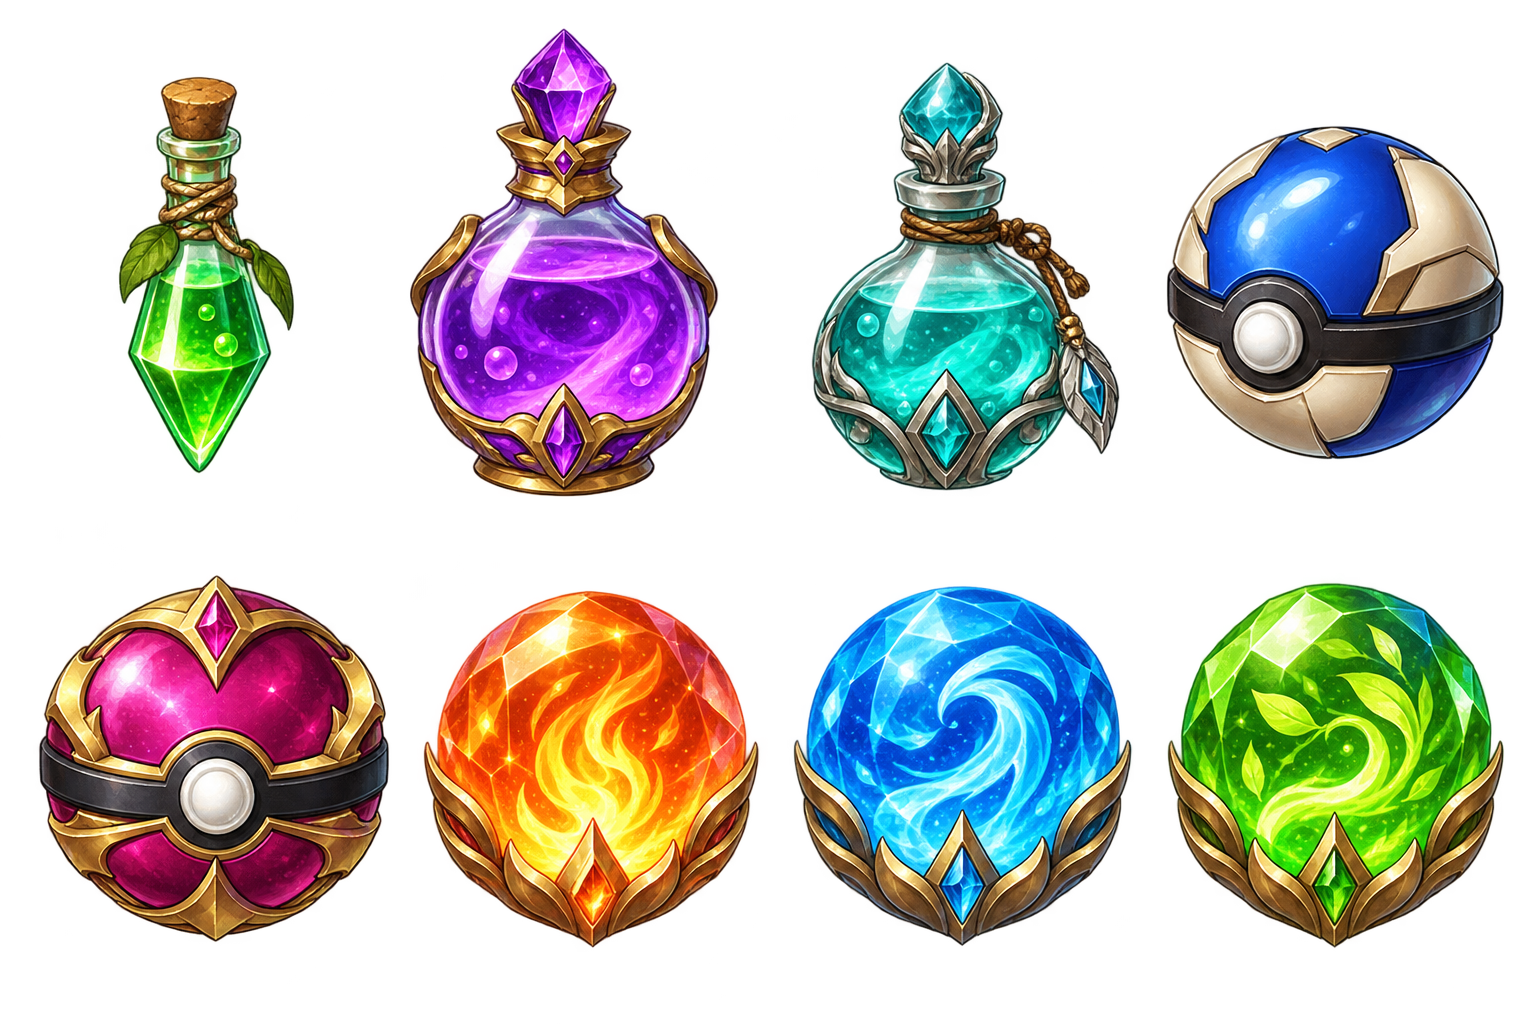
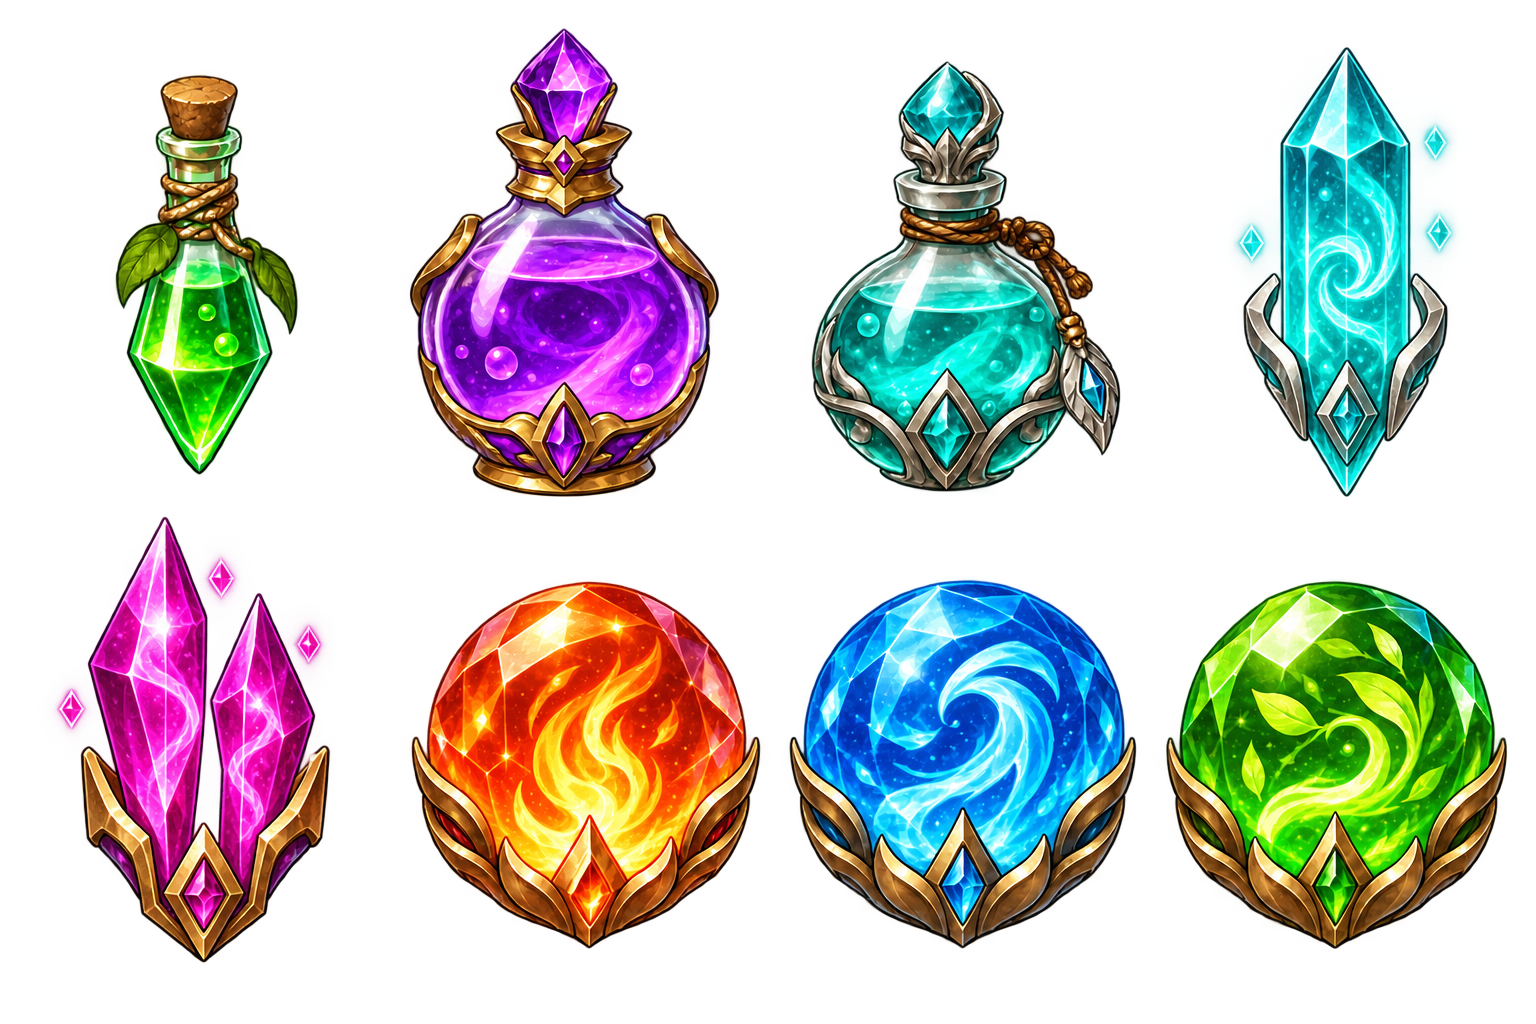
ルミナ・テイマーの捕獲道具・回復担当・紹介画像を刷新

diff --git a/lumina_tamer.html b/lumina_tamer.html
@@ -124,7 +124,7 @@ const SP = {
   cinderbat: { n: 'ヒバット', t: 'ember', hp: 44, at: 54, df: 42, sp: 68, ex: 70, rate: 40, learn: [[1, 'tackle'], [1, 'ember'], [10, 'bite'], [14, 'flamewheel']], look: { c: '#ff6a4a', c2: '#4a2030', sh: 'bird', f: ['batWings', 'earsP'], z: .9 } }
 };
 const ITEMS = { cure: { n: 'じょうたいなおし', en: 'Status Cure', d: 'やけど・まひ・どく・こおりを なおす', cure: true }, potion: { n: 'きずぐすり', en: 'Potion', d: 'HPを 30 かいふくする', heal: 30 }, hyper: { n: 'すごいきずぐすり', en: 'Hyper Potion', d: 'HPを 80 かいふくする', heal: 80 },
-  orb: { n: 'ルミナオーブ', en: 'Lumina Orb', d: 'やせいの モンスターを つかまえる', bonus: 1 }, grand: { n: 'グランドオーブ', en: 'Grand Orb', d: 'つかまえやすい とくべつな オーブ', bonus: 2.6 } };
+  orb: { n: 'ルミナ封晶', en: 'Lumina Seal Crystal', d: 'やせいの モンスターを つかまえる', bonus: 1 }, grand: { n: 'グランド封晶', en: 'Grand Seal Crystal', d: 'つかまえやすい とくべつな 封晶', bonus: 2.6 } };
 const totalExp = lv => Math.floor(lv * lv * lv * .6);
 
 /* ---------------- モンスター生成・能力値 ---------------- */
@@ -324,7 +324,7 @@ mkRows('gym', ['WWWWWWWWWWWW', 'WppppppppppW', 'WpxxppppxxpW', 'WppppppppppW', '
 /* ---------------- 人物 ---------------- */
 const NPCDEFS = [
   { id: 'prof', map: 'lab', x: 9, y: 5, dir: 'l', kind: 'prof', name: 'ミモザはかせ', hat: null, hair: '#e8e0f0', shirt: '#ffffff' },
-  { id: 'nurse', map: 'center', x: 4, y: 1, dir: 'd', kind: 'nurse', name: 'ナース', hat: '#ff9ac0', hair: '#ff9ac0', shirt: '#ffe0ec' },
+  { id: 'nurse', map: 'center', x: 4, y: 1, dir: 'd', kind: 'nurse', name: '薬師', hat: null, hair: '#79513a', shirt: '#345943' },
   { id: 'ken', map: 'out', x: 17, y: 22, dir: 'r', kind: 'trainer', name: 'たんけんか ケン', sight: 4, hair: '#6a4a2a', shirt: '#7a9a4a', hat: '#c0a040',
     team: [['nibblet', 6], ['mossbug', 7]], pre: 'おっ、きみ モンスターを つれてるな! しょうぶだ!', post: 'つよいな…！ ぼくも もっと きたえるよ。' },
   { id: 'mio', map: 'out', x: 22, y: 15, dir: 'l', kind: 'trainer', name: 'ぼうけんしゃ ミオ', sight: 4, hair: '#2a2a4a', shirt: '#c85a8a', hat: null,
@@ -335,7 +335,7 @@ const NPCDEFS = [
     team: [['pebblo', 11], ['boulderon', 13], ['boulderon', 14]], pre: 'ようこそ クォーリー・ジムへ! わたしは ガーネット。いわの かたさ、みせてあげる!',
     post: 'みごとだ…。これが クォーリーバッジ。きみは ほんものの テイマーだ!' },
   { id: 'guard', map: 'out', x: 31, y: 6, dir: 'u', kind: 'guard', name: 'ガードマン', hat: '#4a5a8a', hair: '#222', shirt: '#4a5a8a', hide: 'gym' },
-  { id: 'nurse2', map: 'cave', x: 8, y: 22, dir: 'd', kind: 'nurse', name: 'キャンプナース', hat: '#ff9ac0', hair: '#ff9ac0', shirt: '#ffe0ec' },
+  { id: 'nurse2', map: 'cave', x: 8, y: 22, dir: 'd', kind: 'nurse', name: 'キャンプの薬師', hat: null, hair: '#79513a', shirt: '#345943' },
   { id: 'gaku', map: 'cave', x: 7, y: 10, dir: 'r', kind: 'trainer', name: 'ロッククライマー ガク', sight: 4, hair: '#5a3a2a', shirt: '#c08040', hat: '#e8d040',
     team: [['drillmole', 14], ['pebblo', 14], ['glowmoth', 15]], pre: 'この洞窟は ぼくの しゅぎょうの場だ! しょうぶしよう!', post: 'やるなあ! おくには こおりつかいが いるぞ。' },
   { id: 'yuki', map: 'cave', x: 10, y: 5, dir: 'd', kind: 'trainer', name: 'こおりつかい ユキ', sight: 4, hair: '#cfe8ff', shirt: '#6aa0e0', hat: null,
@@ -344,7 +344,7 @@ const NPCDEFS = [
     team: [['auramoth', 19], ['tunnelord', 20]], pre: 'ここまで よく のぼってきた。わしの しゅぎょう、うけてみよ!', post: 'みごと…。ちょうろうが おくで まっておられる。' },
   { id: 'miko', map: 'summit', x: 16, y: 9, dir: 'l', kind: 'trainer', name: 'しゅぎょうそう ミコ', sight: 5, hair: '#8a3a6a', shirt: '#f0d8e8', hat: null,
     team: [['blizzbun', 20], ['swooplume', 20]], pre: 'ちょうろうに あう まえに、わたしと しょうぶよ!', post: 'あなた、ほんものね。せいいっぱい たたかってらっしゃい!' },
-  { id: 'nurse3', map: 'summit', x: 9, y: 19, dir: 'd', kind: 'nurse', name: 'ふもとのナース', hat: '#ff9ac0', hair: '#ff9ac0', shirt: '#ffe0ec' },
+  { id: 'nurse3', map: 'summit', x: 9, y: 19, dir: 'd', kind: 'nurse', name: 'ふもとの薬師', hat: null, hair: '#79513a', shirt: '#345943' },
   { id: 'elder', map: 'summit', x: 11, y: 4, dir: 'd', kind: 'leader', name: 'ちょうろう ルナ', hair: '#f0f0ff', shirt: '#5a4a8a', hat: '#d8b0ff',
     team: [['swooplume', 22], ['boulderon', 22], ['aqualos', 23], ['forestag', 23], ['blazefang', 25]],
     pre: 'よくぞ ここまで たどりついた。ルミナの ともしびを うけつぐ ものか、このわしに みせてみよ!',
@@ -354,9 +354,9 @@ const NPCDEFS = [
   { id: 'kaito2', map: 'harbor', x: 15, y: 9, dir: 'u', kind: 'trainer', name: 'ライバル カイト', sight: 3, hair: '#7a2a2a', shirt: '#e8e8f0', hat: null,
     team: [['R0', 27], ['gullet', 26], ['coralon', 26]], pre: 'ここで あったが ひゃくねんめだ! おれも ずいぶん つよくなったぜ!', post: 'ちくしょう…! だが たのしかった。ジムを めざすなら きをつけろよ。' },
   { id: 'guard2', map: 'out', x: 3, y: 8, dir: 'r', kind: 'guard2', name: 'ガードマン', hat: '#4a5a8a', hair: '#222', shirt: '#4a5a8a', hide: 'champ' },
-  { id: 'nurse4', map: 'center2', x: 4, y: 1, dir: 'd', kind: 'nurse', name: 'ナース', hat: '#ff9ac0', hair: '#ff9ac0', shirt: '#ffe0ec' },
+  { id: 'nurse4', map: 'center2', x: 4, y: 1, dir: 'd', kind: 'nurse', name: '薬師', hat: null, hair: '#79513a', shirt: '#345943' },
   { id: 'gen', map: 'harbor', x: 17, y: 22, dir: 'u', kind: 'trainer', name: 'つりびと ゲン', sight: 3, hair: '#4a3a2a', shirt: '#6a8aa8', hat: '#e8d8a0',
-    team: [['puddlin', 24], ['shellpup', 24], ['aqualos', 26]], pre: 'おっ、大物が かかったな! しょうぶだ!', post: 'ははは、まいった! さんばしの せんたんの オーブを もっていきな。' },
+    team: [['puddlin', 24], ['shellpup', 24], ['aqualos', 26]], pre: 'おっ、大物が かかったな! しょうぶだ!', post: 'ははは、まいった! さんばしの せんたんの 封晶を もっていきな。' },
   { id: 'take', map: 'gym2', x: 9, y: 5, dir: 'l', kind: 'trainer', name: 'ふなのり タケ', sight: 5, hair: '#2a3a5a', shirt: '#e8e8f0', hat: '#4a6aa8',
     team: [['gullet', 25], ['sparkeel', 25]], pre: 'うみの おとこの しょうぶ、うけてみろ!', post: 'なみに のまれた…! リーダーは おくだぜ。' },
   { id: 'nami', map: 'gym2', x: 3, y: 7, dir: 'r', kind: 'trainer', name: 'うみレンジャー ナミ', sight: 5, hair: '#2a8a8a', shirt: '#f0f0d0', hat: null,
@@ -374,7 +374,7 @@ const NPCDEFS = [
   { id: 'it7', map: 'harbor', x: 3, y: 9, dir: 'd', kind: 'item', item: 'cure', qty: 3, hide: 'got_it7', name: 'item' },
   { id: 'it8', map: 'cave', x: 8, y: 1, dir: 'd', kind: 'item', item: 'cure', qty: 2, hide: 'got_it8', name: 'item' },
   { id: 'sailor', map: 'harbor', x: 18, y: 20, dir: 'd', kind: 'ferry', name: 'ふなのり', hair: '#3a3a3a', shirt: '#e8e8f0', hat: '#2a4a8a' },
-  { id: 'nurse5', map: 'center3', x: 4, y: 1, dir: 'd', kind: 'nurse', name: 'ナース', hat: '#ff9ac0', hair: '#ff9ac0', shirt: '#ffe0ec' },
+  { id: 'nurse5', map: 'center3', x: 4, y: 1, dir: 'd', kind: 'nurse', name: '薬師', hat: null, hair: '#79513a', shirt: '#345943' },
   { id: 'towerman', map: 'tower', x: 4, y: 1, dir: 'd', kind: 'tower', name: 'タワーうけつけ', hat: '#e8c050', hair: '#3a2a1a', shirt: '#4a4a8a' },
   { id: 'yume', map: 'gym4', x: 9, y: 5, dir: 'l', kind: 'trainer', name: 'うらないし ユメ', sight: 5, hair: '#6a3a8a', shirt: '#4a2a6a', hat: null,
     team: [['wispling', 33], ['gloomcap', 33], ['dusknit', 34]], pre: 'あなたの みらい、かげの なかに みえるわ…', post: 'みえなかった…。リーダーに ちゅうい。ほのおと でんきが ききめよ。' },
@@ -653,7 +653,7 @@ function interact() {
 function dexCount() { return Object.keys(S.caught).filter(k => S.caught[k] === 1).length; }
 async function dexReward() {
   const c = dexCount(), tot = Object.keys(SP).length;
-  if (c >= 20 && !S.flags.dex20) { S.flags.dex20 = true; S.bag.grand = (S.bag.grand || 0) + 5; sfx('win'); await say('ミモザはかせ「すごい! もう ' + c + 'しゅるいも ずかんに のっている!\nごほうびに グランドオーブを ５こ あげよう!」'); return true; }
+  if (c >= 20 && !S.flags.dex20) { S.flags.dex20 = true; S.bag.grand = (S.bag.grand || 0) + 5; sfx('win'); await say('ミモザはかせ「すごい! もう ' + c + 'しゅるいも ずかんに のっている!\nごほうびに グランド封晶を ５こ あげよう!」'); return true; }
   if (c >= tot - 1 && !S.flags.dexAll) { S.flags.dexAll = true; S.bag.hyper = (S.bag.hyper || 0) + 10; sfx('win'); await say('ミモザはかせ「ずかん ほぼ コンプリートだ…! きみは ほんものの ずかんマスターだ!\nすごいきずぐすりを １０こ おくろう!」'); return true; }
   return false;
 }
@@ -689,7 +689,7 @@ async function towerRun() {
   S.tower.best = Math.max(S.tower.best, won);
   if (won === 7) {
     S.tower.clears++; sfx('win'); S.bag.grand = (S.bag.grand || 0) + 2; S.bag.hyper = (S.bag.hyper || 0) + 5;
-    await say('７れんしょう たっせい! タワーうけつけ「おめでとう! グランドオーブ ２こ と すごいきずぐすり ５こ を おくるわ!」');
+    await say('７れんしょう たっせい! タワーうけつけ「おめでとう! グランド封晶 ２こ と すごいきずぐすり ５こ を おくるわ!」');
     S.party.forEach(m => { m.hp = m.max; m.disp = m.hp; m.st = null; });
   }
 }
@@ -707,15 +707,15 @@ async function talkTo(n) {
     else if (!S.flags.gym4) await say('ミモザはかせ「ちょうろうにも かったか! ハーバーの さんばしの ふなのりに はなしかけて、ほしうみ島へ わたってみなさい。かげの ジムが あるそうだ!」');
     else await say('ミモザはかせ「ぜんぶの バッジを あつめたな! きみは ルミナ・テイマーの でんせつだ。バトルタワーで うでだめしも してみなさい!」');
   } else if (n.kind === 'nurse') {
-    await say('ナース「ようこそ モンスターセンターへ! あずかった モンスターを げんきに しますね。」');
+    await say('薬師「ようこそ 旅の休息所へ! 薬草の香りで 仲間たちの旅の疲れを いやしましょう。」');
     await sceneFlash(1); sfx('heal');
     S.party.forEach(m => { m.hp = m.max; m.disp = m.hp; m.st = null; });
     await wait(900);
-    await say('ナース「おまたせしました! みんな げんきに なりましたよ!」');
-    if (S.bag.orb < 6) { S.bag.orb += 4; await say('ナース「サービスです。ルミナオーブを ４こ どうぞ!」'); }
+    await say('薬師「ひと休みできましたね。仲間たちも 元気を取り戻しました。」');
+    if (S.bag.orb < 6) { S.bag.orb += 4; await say('薬師「サービスです。ルミナ封晶を ４こ どうぞ!」'); }
     if (saveGame() && !demo) await say('（ぼうけんの きろくも かきこんだよ）');
     if (!demo && (S.box.length || S.party.length > 1)) {
-      await say('ナース「ボックスも ごりように なりますか?」');
+      await say('薬師「ボックスも ごりように なりますか?」');
       if ((await choose([{ label: 'ひらく / OPEN' }, { label: 'いまはいい / NO' }], { x: 440, y: 270, w: 180, h: 80 })) === 0) await boxScreen();
     }
   } else if (n.kind === 'ferry') {
@@ -785,7 +785,7 @@ async function pickStarter(x) {
   if (!yes) return;
   S.flags.starter = id; const m = mkMon(id, 5); S.party.push(m); S.caught[id] = 1; sfx('win');
   await say(SP[id].n + ' を てにいれた!');
-  await say('ミモザはかせ「いい えらびだ! きずぐすり と ルミナオーブも もたせよう。\nそとの 草むらで モンスターと たたかって つよくなるんだ!」');
+  await say('ミモザはかせ「いい えらびだ! きずぐすり と ルミナ封晶も もたせよう。\nそとの 草むらで モンスターと たたかって つよくなるんだ!」');
 }
 async function dexScreen() {
   const ids = Object.keys(SP);
@@ -1116,7 +1116,7 @@ async function throwOrb(oid) {
   S.bag[oid]--; const f = B.foe;
   await say(ITEMS[oid].n + 'を なげた!', true);
   // 弧
-  await anim(.5, p => { B.orb = { x: lerp(190, 470, p), y: lerp(330, 190, p) - Math.sin(p * Math.PI) * 120, r: 1, spin: p * 14 }; });
+  await anim(.5, p => { B.orb = { x: lerp(190, 470, p), y: lerp(330, 190, p) - Math.sin(p * Math.PI) * 120, r: 1, item: oid, spin: p * 14 }; });
   sfx('hit'); await anim(.25, p => { B.show.e = 1 - p; });
   const prob = clamp(SP[f.id].rate / 100 * (1 - f.hp / f.max * .66) * 1.1 * (ITEMS[oid].bonus || 1), .03, .95);
   const ok = Math.random() < prob, shakes = ok ? 3 : rnd(0, 2);
@@ -1352,7 +1352,7 @@ function drawBattle(g) {
   }
   // 弾
   for (const o of b.proj) { if (o.p <= 0 || o.p >= 1) continue; const x = lerp(o.from[0], o.to[0], o.p), y = lerp(o.from[1] - 60, o.to[1] - 50, o.p) - Math.sin(o.p * Math.PI) * 40; glowMon(g,x,y,18,hexRgb(o.col));g.drawImage(EFFECTART[Object.values(TYPE).findIndex(v=>v.c===o.col)+1]||EFFECTART[0],x-15,y-15,30,30); }
-  if(b.orb){const o=b.orb;g.save();g.translate(o.x,o.y);g.rotate((o.spin||0)+(o.rot||0));if(o.glow)glowMon(g,0,0,30,'255,240,150');g.drawImage(ITEMART[3],-12,-12,24,24);g.restore();}
+  if(b.orb){const o=b.orb;g.save();g.translate(o.x,o.y);g.rotate((o.spin||0)+(o.rot||0));if(o.glow)glowMon(g,0,0,30,'255,240,150');g.drawImage(ITEMART[o.item === 'grand' ? 4 : 3],-12,-12,24,24);g.restore();}
   if (b.weather) drawWeather(g, b.weather, t);
   // 情報ボックス
   if (b.foe) infoBox(g, 20, 20, 290, 70, b.foe, false);

diff --git a/index.html b/index.html
@@ -1091,7 +1091,7 @@
             </div>
           </a>
           <a class="card work-card reveal" href="lumina_tamer.html" data-category="rpg">
-            <div class="work-thumb" style="overflow:hidden;"><img src="assets/game-thumbs/lumina-tamer.webp" alt="炎・水・草の仲間と冒険するルミナ・テイマー" loading="lazy" decoding="async" width="1200" height="525" style="width:100%;height:100%;object-fit:cover;"></div>
+            <div class="work-thumb" style="overflow:hidden;"><img src="assets/game-thumbs/lumina-tamer.webp" alt="地図を手にした探検家と森・水・磁力の精霊が遺跡を巡るルミナ・テイマー" loading="lazy" decoding="async" width="1200" height="525" style="width:100%;height:100%;object-fit:cover;"></div>
             <div class="work-body">
               <div class="work-kicker">Monster RPG / モンスター育成RPG</div>
               <h3>ルミナ・テイマー</h3>
